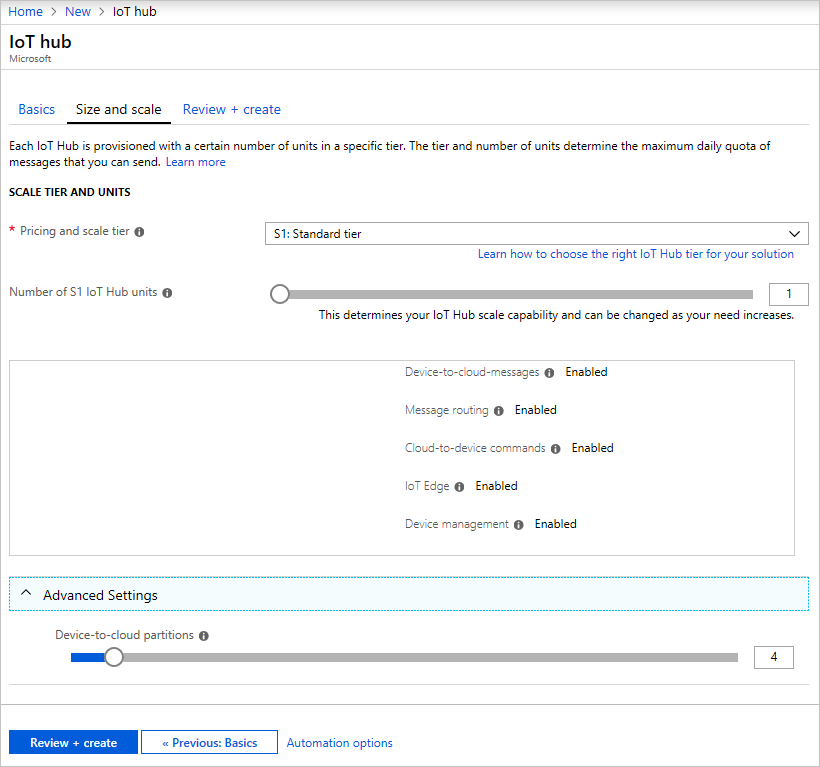
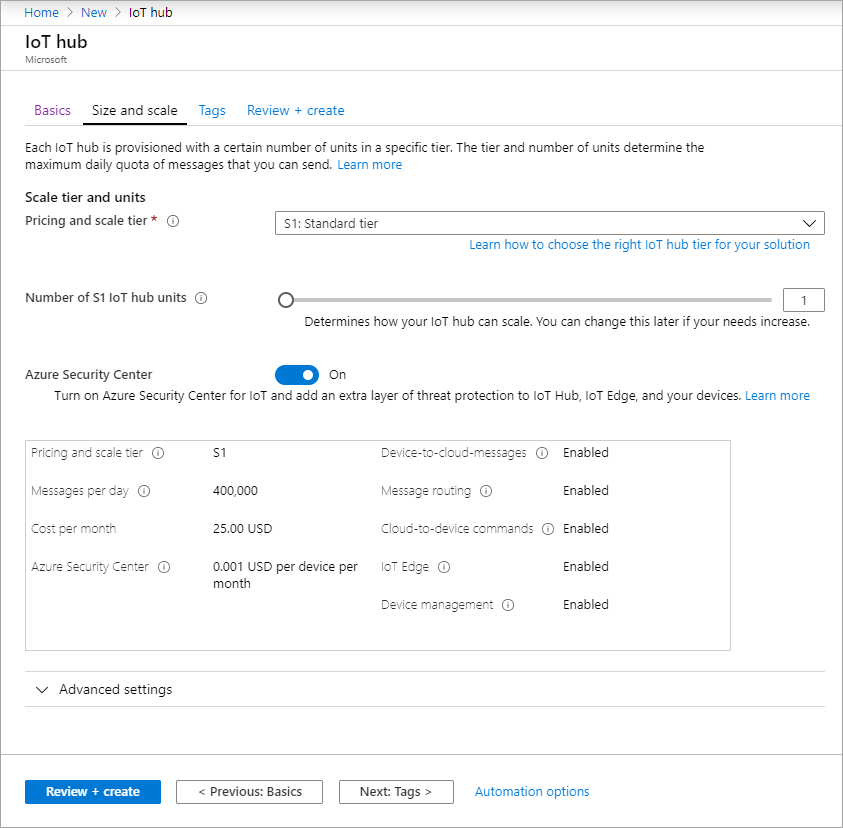
Picture updates.

diff --git a/data-explorer/includes/iot-hub-include-create-hub.md b/data-explorer/includes/iot-hub-include-create-hub.md
@@ -43,9 +43,17 @@ This section describes how to create an IoT hub using the [Azure portal](https:/
     - **IoT Hub units**: The number of messages allowed per unit per day depends on your hub's pricing tier. For example, if you want the hub to support ingress of 700,000 messages, you choose two S1 tier units.
     For details about the other tier options, see [Choosing the right IoT Hub tier](../articles/iot-hub/iot-hub-scaling.md).
 
+    - **Azure Security Center**: Turn this on for IoT to add an extra layer of threat protection to IoT and your devices. This option is not available for hubs in the free tier.
+
     - **Advanced Settings** > **Device-to-cloud partitions**: This property relates the device-to-cloud messages to the number of simultaneous readers of the messages. Most hubs need only four partitions.
 
-1. For this article, accept the default choices, and then select **Review + create** to review your choices. You see something similar to this screen.
+1. For this article, accept the default choices, and then select **Next: Tags** to move to the next screen.
+
+    Tags are name/value pairs. You can assign the same tag to multiple resources and resource groups to categorize resources and consolidate billing.
+
+   ![Set the size and scale for a new hub using the Azure portal](./media/iot-hub-include-create-hub/iot-hub-create-tabs.png)
+
+    Select **Next: Review + create** to review your choices. You see something similar to this screen.
 
    ![Review information for creating the new hub](./media/iot-hub-include-create-hub/iot-hub-create-review.png)
 
